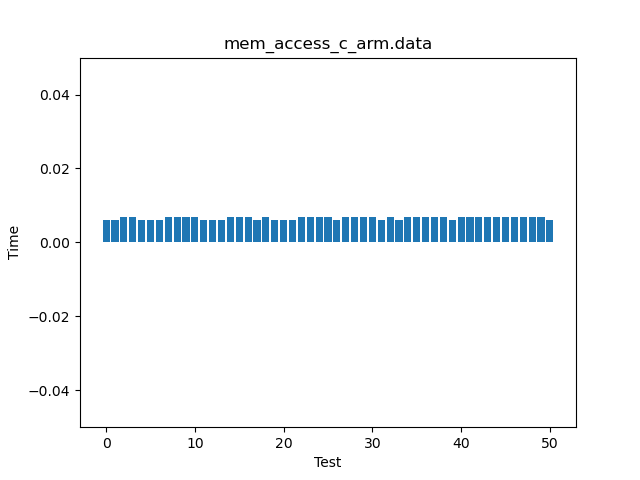
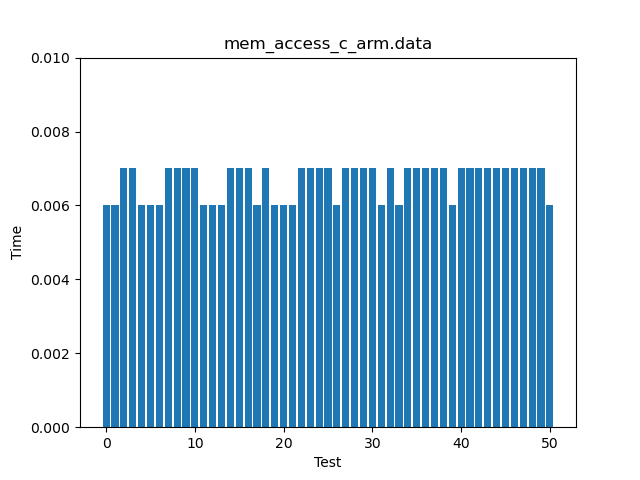
sorted graphs and histograms

diff --git a/data/hist.py b/data/hist.py
@@ -14,13 +14,13 @@ for i in range(75, 126):
     srt.append(data[i])
 
 srt.sort()
-print(srt)
-print(len(srt))
+#print(srt)
+#print(len(srt))
 plt.title(sys.argv[1])
 plt.xlabel("Test")
 plt.ylabel("Time")
-plt.ylim(srt[0], srt[50])
-plt.bar(range(51), srt)
-
-plt.savefig(sys.argv[1].replace(".data", "_sorted.png"))
+#plt.ylim(srt[0], srt[50])
+#plt.bar(range(51), srt)
+plt.hist(data[75:126])
+plt.savefig(sys.argv[1].replace(".data", "_histogram.png"))
 
